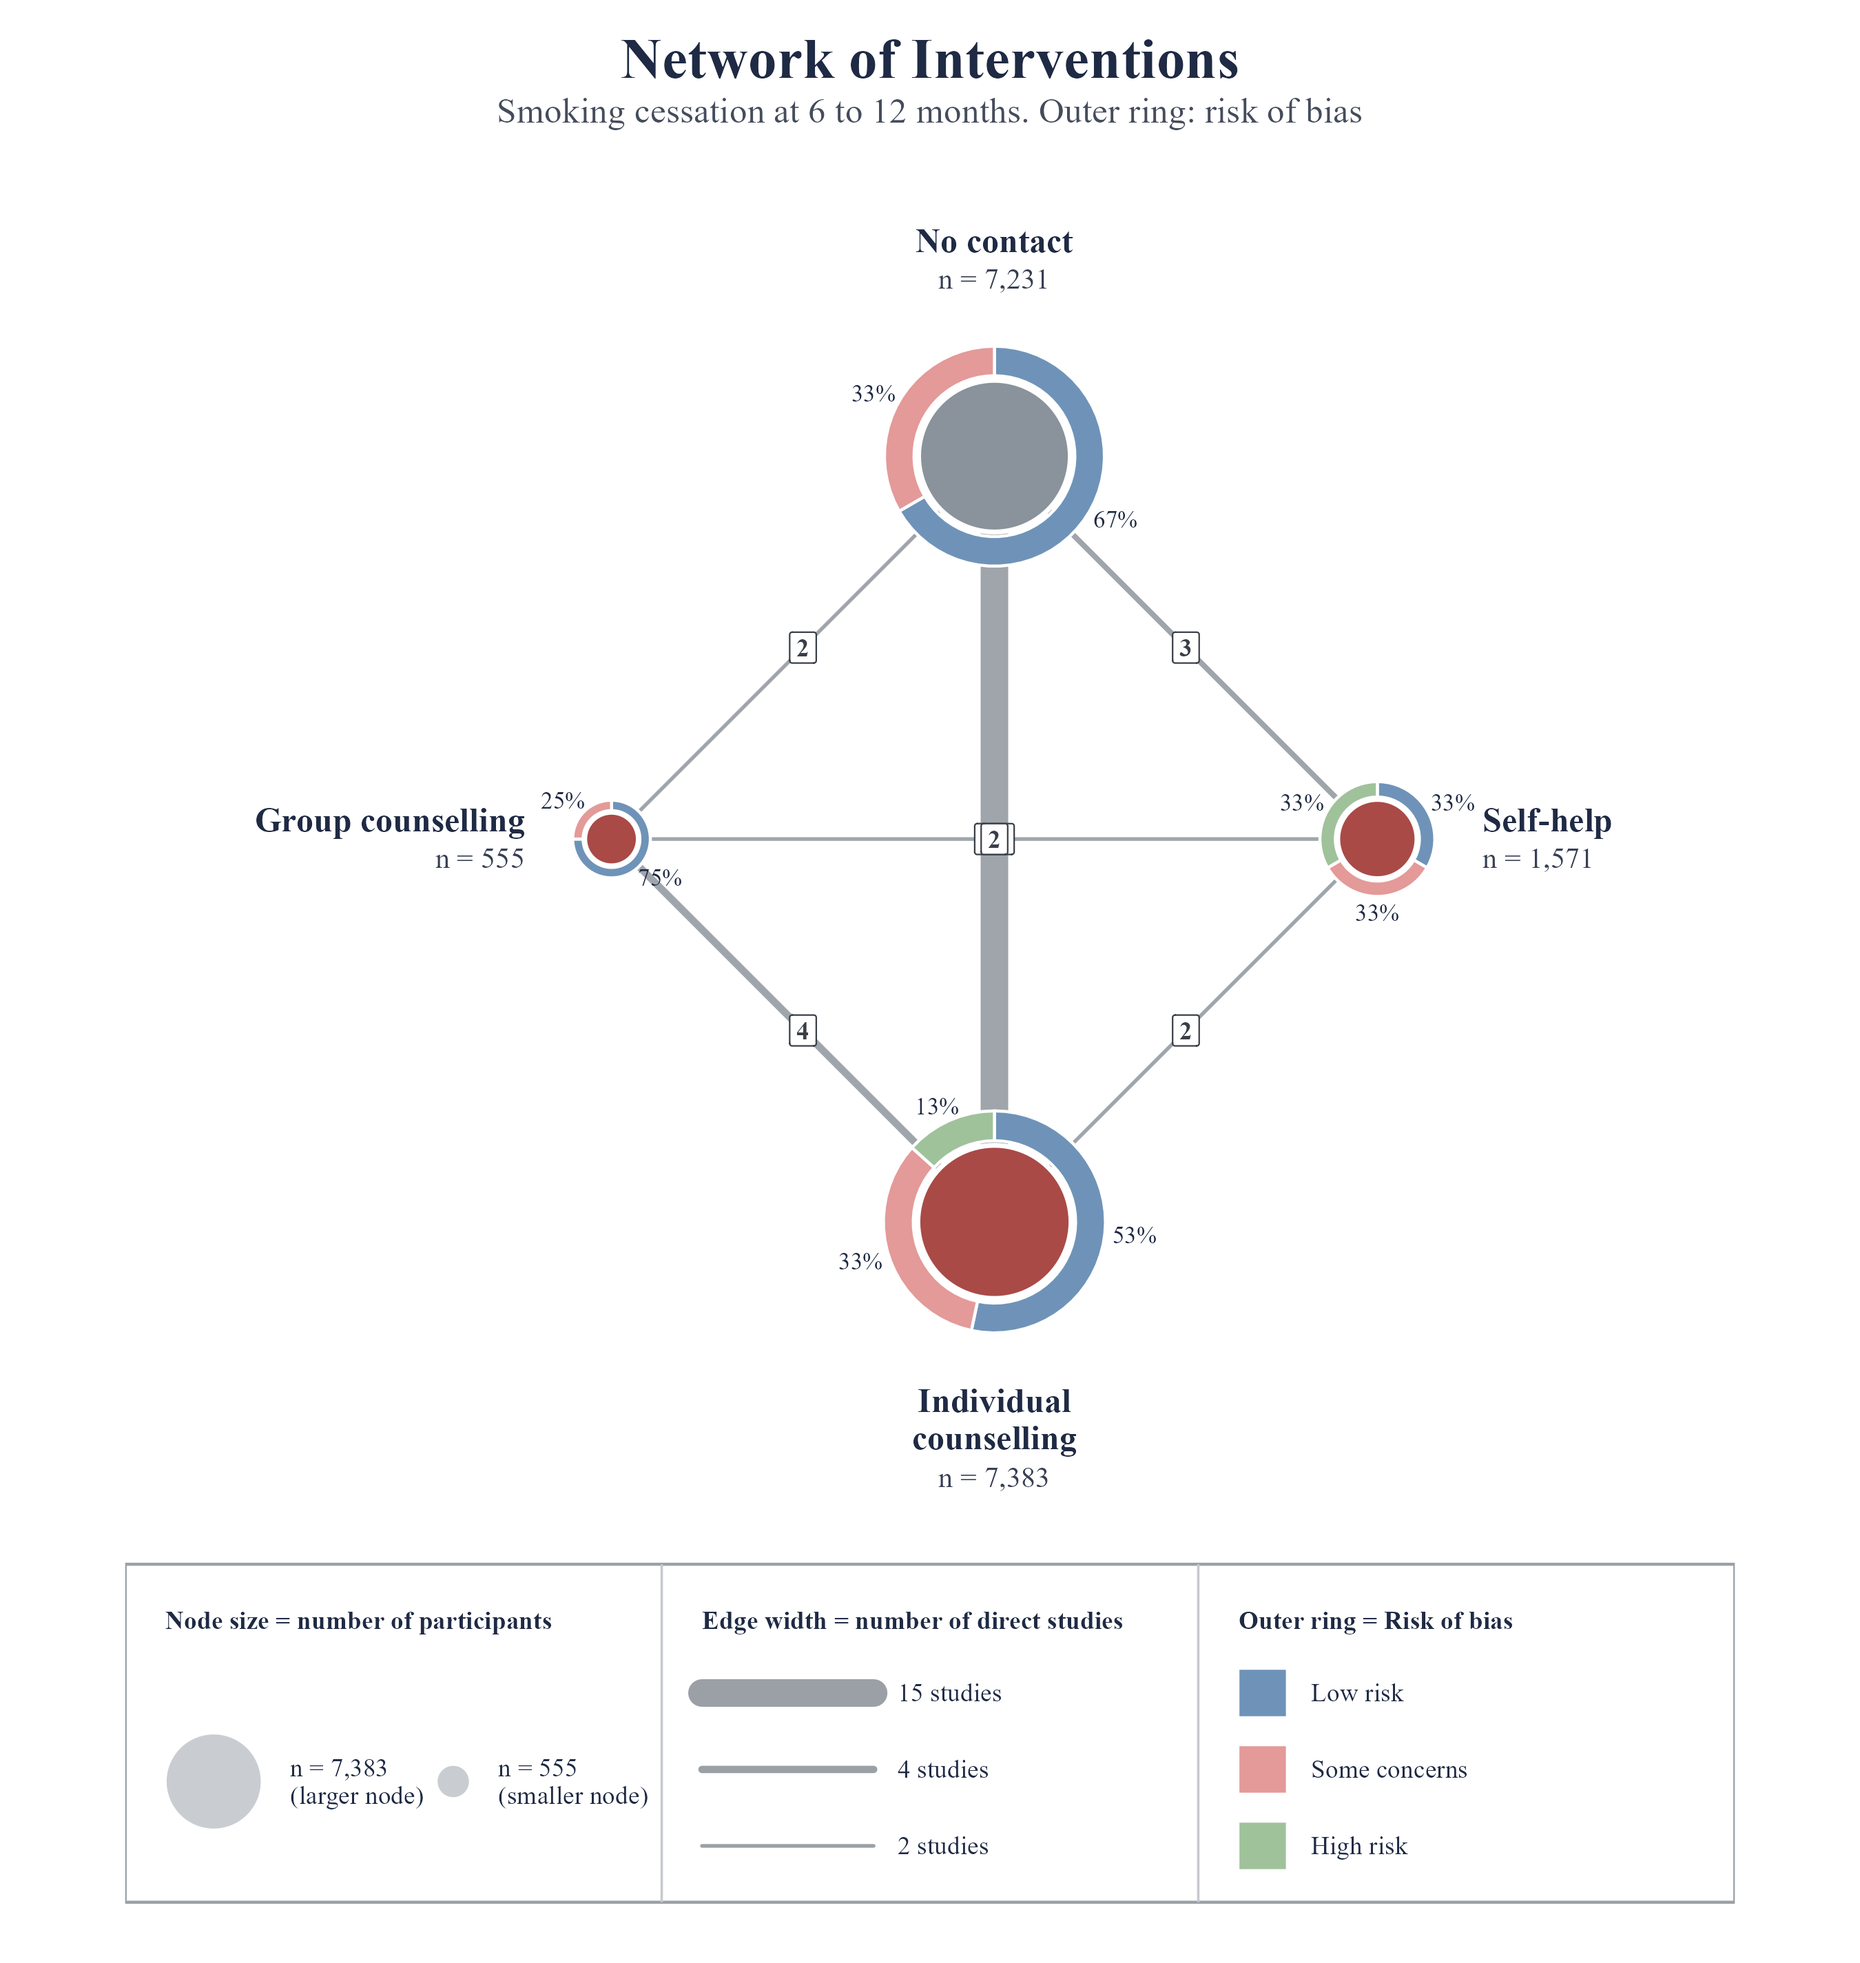
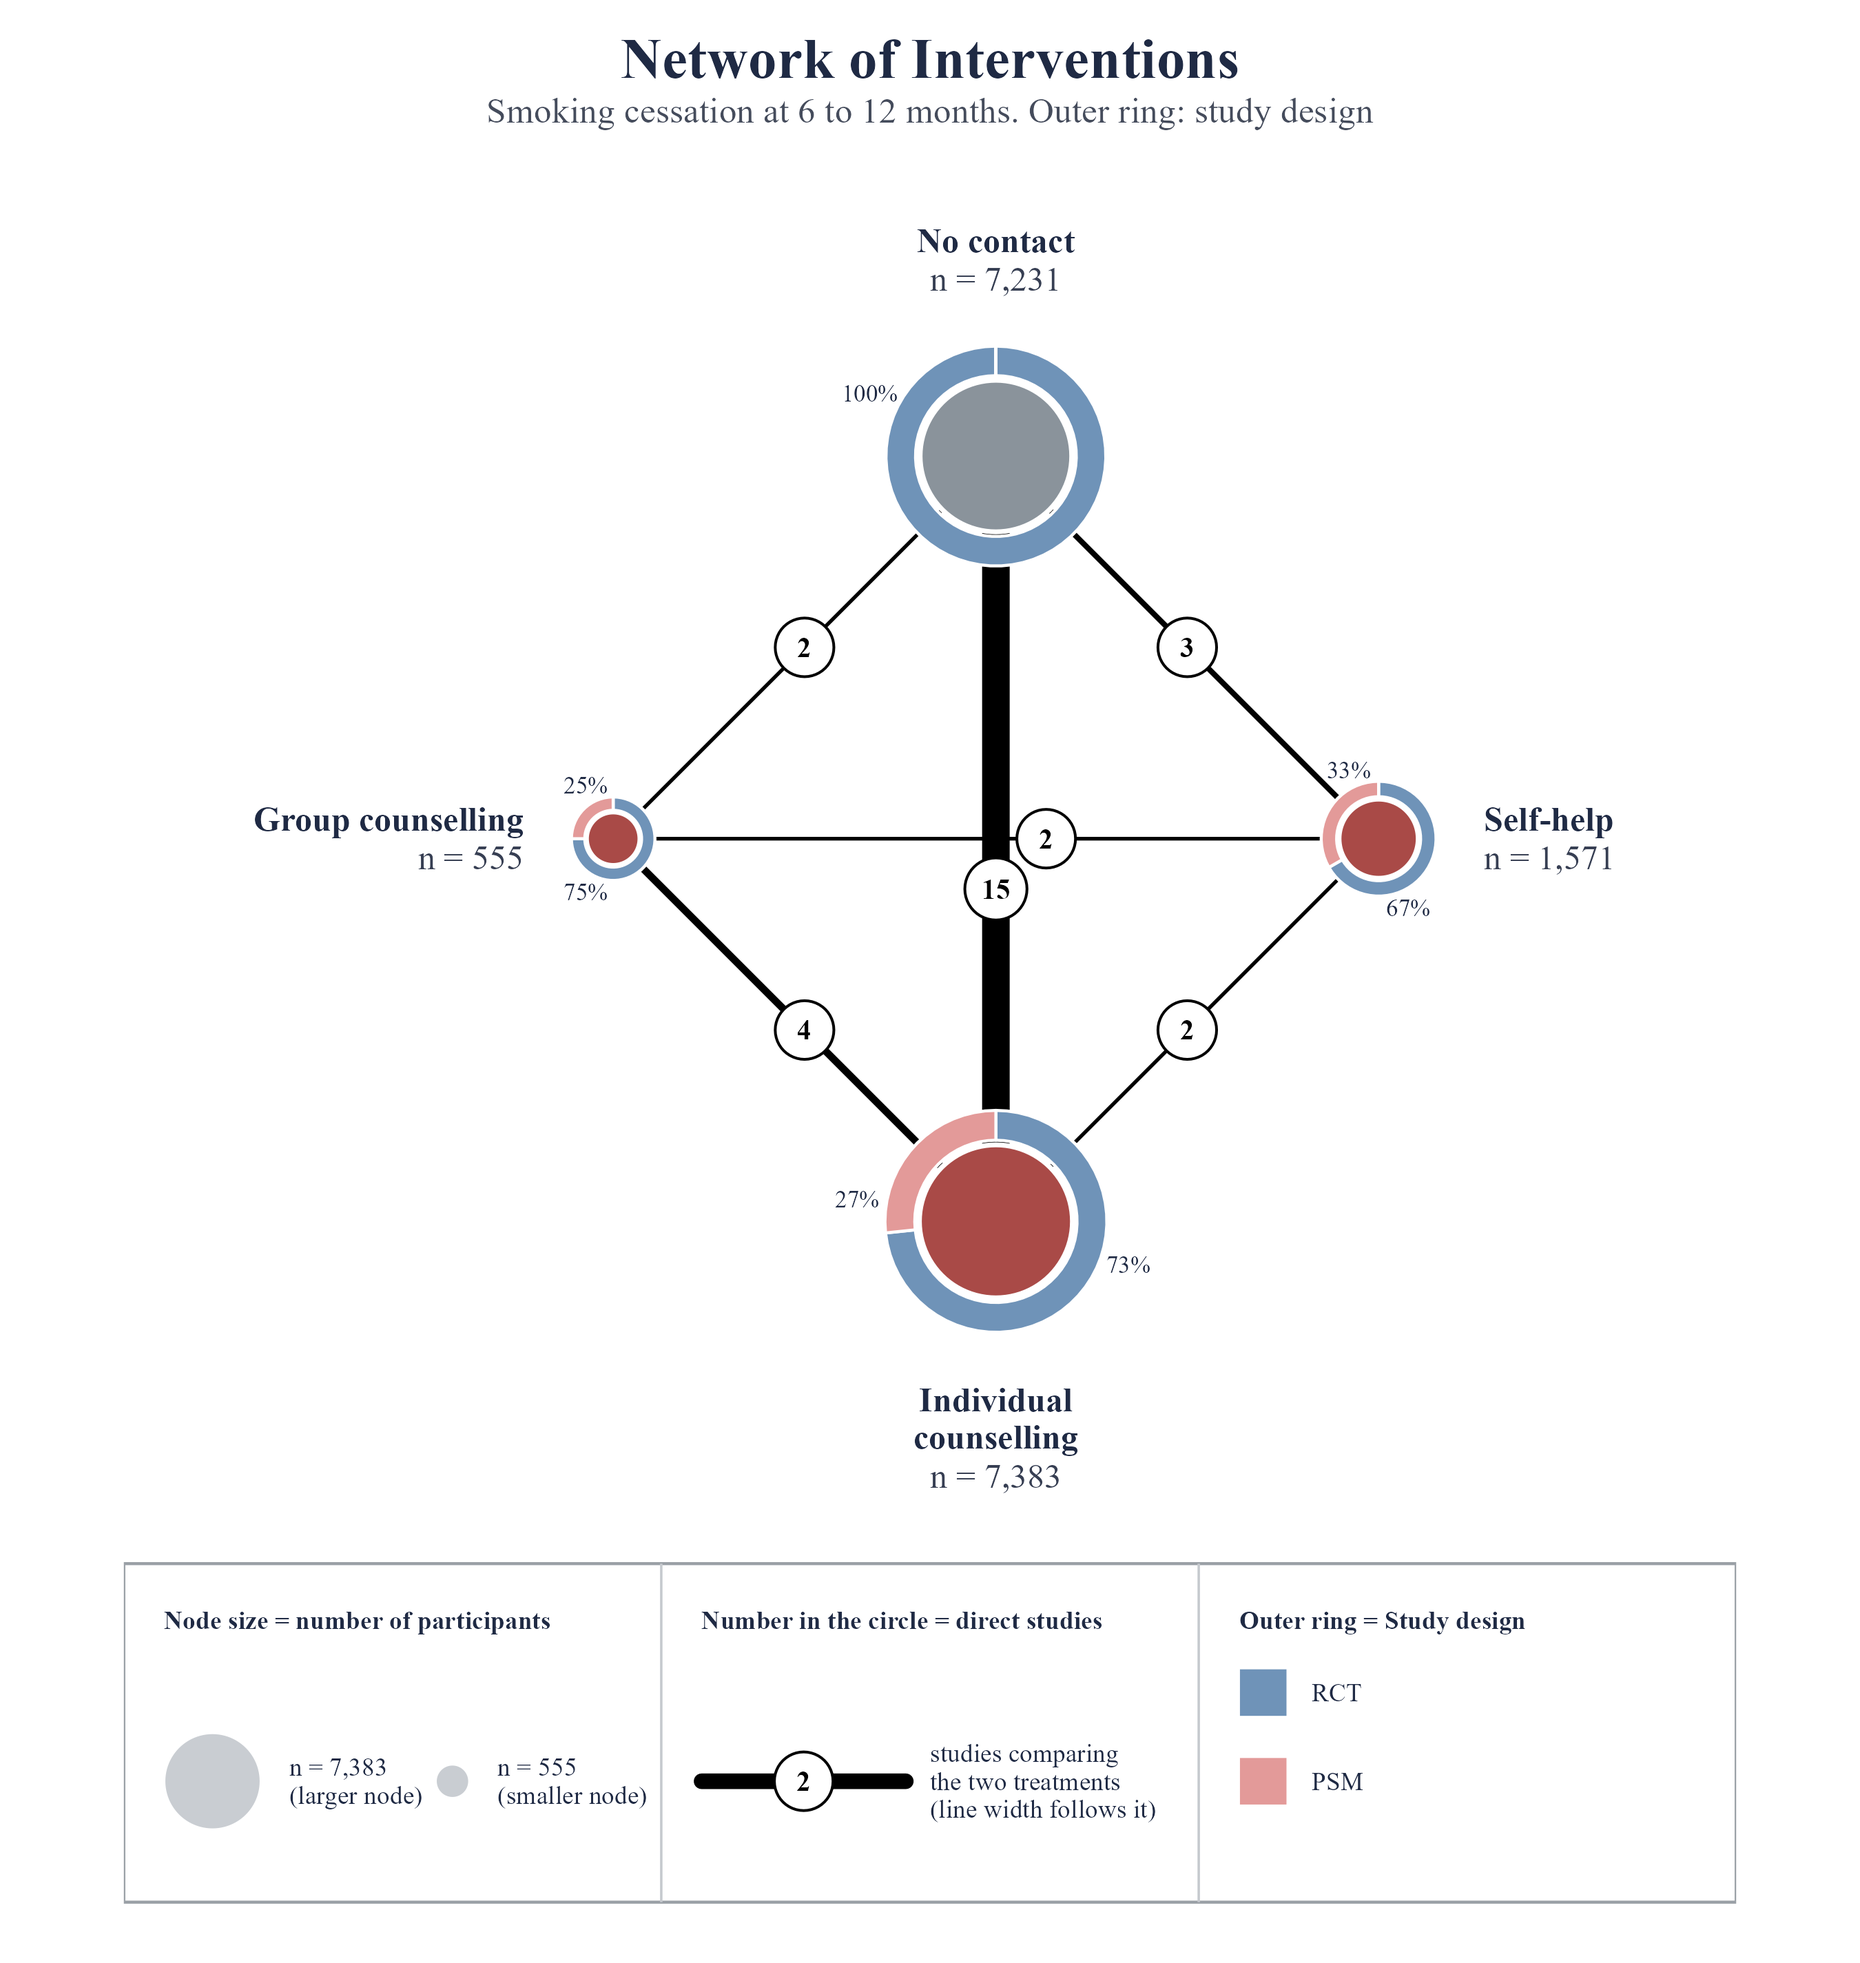
feat: black edges with circled study counts, circle layout guide, design ring example
- edges black; number of direct studies in a white circle with black border
  on each edge; overlapping circles (crossing diagonals) pushed apart
- legend section 2 now shows one line with the circled number instead of
  the width scale
- sample-size line under node names at full label size
- layout = "circle" draws a light dashed guide circle
- ring percentages also avoid the treatment-name direction; fixed row
  spacing for ring groups in the legend
- star layout: centre node label written inside the disc when it fits
- examples and docs use study design (RCT / PSM) as the ring

diff --git a/README.md b/README.md
@@ -4,9 +4,9 @@ Publication-quality network plots for `netmeta` objects, in one function.
 
 `nmaplot()` takes the object returned by `netmeta::netmeta()`, exactly like
 `netmeta::netgraph()`, and draws the evidence network with ggplot2: node
-area by sample size, edge width and boxed count by number of studies,
+area by sample size, black edges with the number of studies in a circle,
 treatment name plus `n = 1,234` at every node, an optional outer ring per
-node showing a subgroup composition (risk of bias, study design, region,
+node showing a subgroup composition (study design, risk of bias, region,
 anything), and a framed legend panel.
 
 ![ring network plot](man/figures/ring.png)
@@ -37,14 +37,14 @@ net1 <- netmeta(p1, sm = "MD", reference.group = "plac")
 nmaplot(net1, outcome = "Change in UPDRS motor score")
 
 # Outer ring: any subgroup composition, one row per treatment and group
-rob <- data.frame(treatment = rep(net1$trts, each = 3),
-                  group = rep(c("Low risk", "Some concerns", "High risk"), 5),
-                  value = c(3, 2, 1,  2, 2, 1,  1, 1, 1,  2, 1, 0,  1, 2, 1))
-nmaplot(net1, ring = rob, ring_name = "Risk of bias",
+design <- data.frame(treatment = rep(net1$trts, each = 2),
+                     group = rep(c("RCT", "PSM"), 5),
+                     value = c(4, 2,  3, 2,  2, 1,  3, 0,  2, 2))
+nmaplot(net1, ring = design, ring_name = "Study design",
         outcome = "Change in UPDRS motor score")
 
 # Save as PNG, PDF or TIFF (format from the extension)
-nmaplot(net1, ring = rob, ring_name = "Risk of bias",
+nmaplot(net1, ring = design, ring_name = "Study design",
         outcome = "Change in UPDRS motor score",
         file = c("network.png", "network.pdf", "network.tiff"),
         width = 9, height = 9.5, dpi = 300)
@@ -60,8 +60,8 @@ nmaplot(net1, ring = rob, ring_name = "Risk of bias",
 | Fonts | `font_family = "serif"` (default) or `"sans"` |
 | Title, subtitle, caption | `title`, `subtitle`, `caption`, `title_size`, `title_color`, `title_align` |
 | Background grid on/off | `grid = TRUE`, `grid_color` |
-| Node arrangement | `layout = "multi"` (polygon, default), `"circle"` (polygon ordered by number of comparisons), `"star"` (reference in the centre), or a coordinate matrix; `order`; `reference` |
-| Number of studies on each connection | `edge_labels = TRUE` (default), `edge_label_size`, `edge_label_fill` |
+| Node arrangement | `layout = "multi"` (polygon, default), `"circle"` (on a circle, ordered by number of comparisons), `"star"` (reference in the centre), or a coordinate matrix; `order`; `reference` |
+| Number of studies on each connection | circled count, `edge_labels = TRUE` (default), `edge_label_size`, `edge_label_fill` (`NA` = plain text) |
 | One line per study between two nodes | `edge_style = "multi"`, `max_lines` |
 | Hide weakly connected comparisons | `min_studies` |
 | Sample size of each group in the label | `show_n = TRUE` (default); falls back to number of studies `(k = ...)` when the object has no sample sizes |
@@ -87,13 +87,13 @@ Default look (smoking cessation, netmeta example data):
 
 ![default network plot](man/figures/default.png)
 
-With a risk-of-bias ring:
+With a study-design ring (RCT versus propensity-score matched):
 
 ![ring network plot](man/figures/ring.png)
 
-`layout = "circle"` orders the polygon by number of comparisons (most
-connected treatment at the top); `layout = "star"` puts the reference in the
-centre. `edge_style = "multi"` draws one line per study and `min_studies`
+`layout = "circle"` places the treatments on a circle (light guide line)
+ordered by number of comparisons, most connected at the top;
+`layout = "star"` puts the reference in the centre. `edge_style = "multi"` draws one line per study and `min_studies`
 hides thin comparisons. The script that produces the
 figures is `inst/examples/demo.R`.
 
